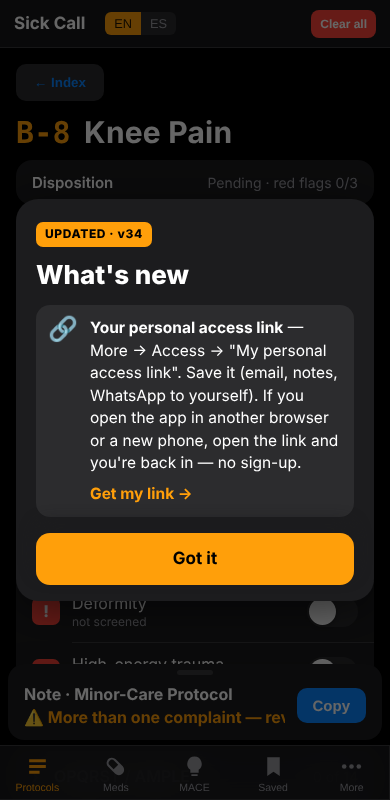
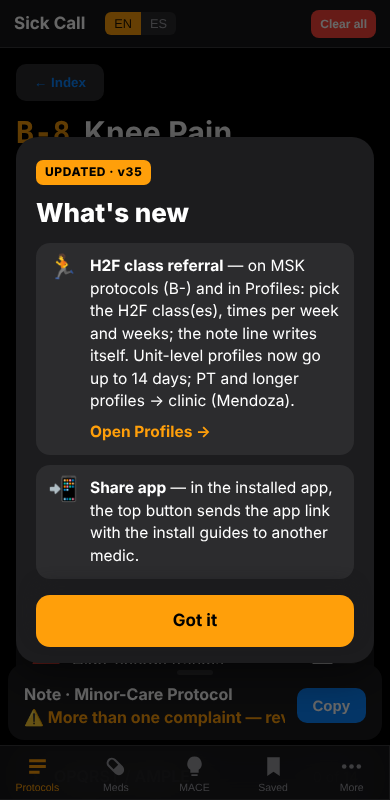
H2F class referral, unit-level profile rules (≤14 days), Share app button (v35)
Referido a clases de H2F, reglas de profile a nivel unidad (≤14 días), botón Compartir app (v35)

Claude-Session: https://claude.ai/code/session_015dVcNB5Wifchtix1QkjYVg

Changed region(s): [[0.0308, 0.1562, 0.9846, 0.8438], [0.9231, 0.25, 0.9538, 0.2812], [0.0308, 0.25, 0.0615, 0.2812]]

diff --git a/app.js b/app.js
@@ -1463,9 +1463,9 @@ function renderQ(){
 }
 /* ---- Profile builder ---- */
 const PB_TYPES=['RTD (full duty)','RTD w/ light duty','Quarters'];
-const PB_DUR=['24h','48h','72h','1 week','until re-evaluated'];
+const PB_DUR=['24h','48h','72h','7 days','14 days'];
 const PB_RESTR=['no PT','no ruck','no running','no jumping','no lifting >20 lbs','no prolonged standing >30 min','no overhead activity','no push-ups/sit-ups','no field duty','low-impact PT only','avoid strenuous activity','avoid heat/friction exposure','no driving/operating equipment (sedating med)'];
-const PB_FU=['Re-eval if not improved','Re-eval at sick call in 48–72h','Return sooner if symptoms worsen','Provider referral if no improvement'];
+const PB_FU=['Re-eval at the end of the profile','Re-eval at sick call in 48–72h','Return sooner if symptoms worsen','Not improved at re-eval → clinic (Mendoza) / provider','Needs PT or a longer/permanent profile → clinic (Mendoza) provider'];
 const PB_PRESETS=[
  {n:'Acute MSK 48h',t:1,d:1,r:[1,2,3,4],f:[0]},
  {n:'MSK + H2F',t:1,d:1,r:[1,2,3,4],f:[0],h:true},
@@ -1477,14 +1477,14 @@ const PB_PRESETS=[
 let pb={t:null,d:null,r:new Set(),f:new Set(),h:false,c:''};
 function pbText(){
   if(pb.t===null)return '';
-  const dur=pb.d===null?'':(pb.d===4?' until re-evaluated':' x'+PB_DUR[pb.d]);
+  const dur=pb.d===null?'':' x'+PB_DUR[pb.d];
   const rs=[...pb.r].sort((a,b)=>a-b).map(i=>PB_RESTR[i]); if(pb.c.trim())rs.push(pb.c.trim());
   const out=[];
   if(pb.t===0){out.push('RTD — cleared for full duty.'); if(rs.length)out.push('Advise: '+rs.join(', ')+'.');}
   else if(pb.t===1){out.push('RTD w/ restrictions'+dur+' (per CoC guidance)'+(rs.length?': '+rs.join(', '):'')+'.');}
   else{out.push('Recommend quarters'+dur+' for rest/recovery (pending CoC/provider approval).'+(rs.length?' On return: '+rs.join(', ')+'.':''));}
   [...pb.f].sort((a,b)=>a-b).forEach(i=>out.push(PB_FU[i]+'.'));
-  if(pb.h)out.push('Recommend referral to H2F for running/gait instruction, strengthening of weak muscle groups, and injury-prevention classes.');
+  if(pb.h)out.push(h2fText()||'Recommend referral to H2F for running/gait instruction, strengthening of weak muscle groups, and injury-prevention classes.');
   return out.join(' ');
 }
 function pbSet(k,v){pb[k]=pb[k]===v?null:v;renderMain();}
@@ -1504,7 +1504,9 @@ function renderProfiles(){
   const sedating=TPLS.some(t=>[...state[t.id].plan].some(p=>/Benadryl|Actifed/.test(p)));
   const chip=(on,fn,label)=>`<span class="chip ${on?'on':''}" onclick="${fn}">${label}</span>`;
   let h=`<h2 class="tpl">🪖 Profiles — builder</h2><p class="tpl-sub">Build the recommendation: type, duration, restrictions and follow-up. The text generates itself — copy it or send it to the note's Disposition. Always as a recommendation, not a medical order.</p><div class="ref">`;
+  h+='<div class="note-hint" style="margin-bottom:10px">🪖 '+L('<b>Unit level:</b> temporary profiles up to <b>14 days</b>, H2F referral and basic treatment. Re-evaluate at the end of the profile; not improved → clinic (Mendoza). PT referrals and longer or permanent profiles are done by the provider at the clinic.','<b>A nivel unidad:</b> profiles temporales de hasta <b>14 días</b>, referido a H2F y tratamiento básico. Re-evaluar al terminar el profile; si no mejora → clínica (Mendoza). Los referidos a PT y los profiles largos o permanentes los hace el proveedor en la clínica.')+'</div>';
   h+=pfbCard();
+  h+=h2fCard();
   if(anyPos)h+=`<div class="rfbanner">🚩 There is a POSITIVE red flag in a section — do NOT recommend RTD / light duty / quarters. Escalate to provider/ER per protocol.</div>`;
   h+=`<div class="field"><div class="lab"><span class="tag">⚡</span><span class="name">Shortcuts</span><span class="ask">load a combination and adjust it</span></div><div class="chips">`;
   PB_PRESETS.forEach((q,i)=>h+=chip(false,`pbPreset(${i})`,q.n));
@@ -1957,7 +1959,7 @@ function adTagLines(p){
   return out;
 }
 function noteEntries(){const ex=new Set(ad.excl||[]);const e=ad.log.filter(x=>!ex.has('ad:'+x.id));
-  if(ad.pid&&!ex.has('ad:'+ad.pid)){const p=getP(ad.pid),R=adEval(p);if(R.final||Object.keys(ad.dpDone).length||Object.keys(ad.rf).length||(ad.pfb&&ad.pid==='J-3'))e.push(adEntry(p,R));}return e;}
+  if(ad.pid&&!ex.has('ad:'+ad.pid)){const p=getP(ad.pid),R=adEval(p);if(R.final||Object.keys(ad.dpDone).length||Object.keys(ad.rf).length||(ad.pfb&&ad.pid==='J-3')||(typeof h2f!=='undefined'&&h2f.cls.size&&/^B-/.test(ad.pid)))e.push(adEntry(p,R));}return e;}
 function noteActive(){const ex=new Set(ad.excl||[]);return TPLS.filter(t=>tplHasContent(t,state[t.id])&&!ex.has('tpl:'+t.id));}
 function noteTog(k){const a=ad.excl||(ad.excl=[]);const i=a.indexOf(k);const off=i<0;off?a.push(k):a.splice(i,1);
   if(k.startsWith('ad:')){try{const id=k.slice(3),tid=protoTpl(id).tid,tk='tpl:'+tid;
@@ -2471,7 +2473,26 @@ function adDecisionHtml(p,R){
   h+='<div class="algo-actions"><button onclick="adCommit()">✓ Done — add to note, next complaint</button><button class="ghost" onclick="gOpenNote()">View note</button><button class="ghost" onclick="adBack()">Cancel</button></div>';
   return h;
 }
-function adResultCard(p,R){return adResultCard0(p,R)+(p.id==='J-3'?pfbCard():'')+'<div class="medic-only">⚕ '+L('Medic use only — suggestion for the medic and provider, not a self-diagnosis.','Solo para uso del médico — sugerencia para el médico y el proveedor, no es un autodiagnóstico.')+'</div>';}
+function adResultCard(p,R){return adResultCard0(p,R)+(p.id==='J-3'?pfbCard():'')+(/^B-/.test(p.id)?h2fCard():'')+'<div class="medic-only">⚕ '+L('Medic use only — suggestion for the medic and provider, not a self-diagnosis.','Solo para uso del médico — sugerencia para el médico y el proveedor, no es un autodiagnóstico.')+'</div>';}
+/* H2F class referral (data/h2f.js) — on ADTMC B- (MSK) protocols and in Profiles. / Referido a H2F */
+const h2f={cls:new Set(),f:2,w:4};
+function h2fTog(k){h2f.cls.has(k)?h2f.cls.delete(k):h2f.cls.add(k);renderMain();renderNote();}
+function h2fSet(k,v){h2f[k]=v;renderMain();renderNote();}
+function h2fMedic(){try{return (acRole&&acRole.reg&&acRole.reg.name)||settings.medicName||'';}catch(e){return settings.medicName||'';}}
+function h2fText(){if(typeof H2F_CLASSES==='undefined'||!h2f.cls.size)return '';
+  const c=H2F_CLASSES.filter(x=>h2f.cls.has(x[0])).map(x=>x[1]+' ('+x[2]+')').join('; ');
+  const m=h2fMedic();
+  return 'Referred to H2F ('+H2F_LOC+'): '+c+' — '+h2f.f+'x/week x'+h2f.w+' weeks. H2F class slip given; Soldier brings slip to the COF / schedules via Visibook QR.'+(m?' Referring source: '+m+(/\.$/.test(m)?'':'.'):'');}
+function h2fCard(){if(typeof H2F_CLASSES==='undefined')return '';
+  const sug=ad.pid?H2F_CLASSES.filter(x=>x[3].includes(ad.pid)).map(x=>x[0]):[];
+  let h='<div class="field h2f"><div class="lab"><span class="tag">🏃</span><span class="name">'+L('H2F class referral','Referido a clases de H2F')+'</span><span class="ask">'+L('unit level — instead of PT','a nivel unidad — en vez de PT')+'</span></div>';
+  h+='<div class="chips">'+H2F_CLASSES.map(x=>'<span class="chip '+(h2f.cls.has(x[0])?'on':'')+'" onclick="h2fTog(\''+x[0]+'\')">'+(sug.includes(x[0])?'★ ':'')+x[1]+' <small style="opacity:.7">'+x[2]+'</small></span>').join('')+'</div>';
+  h+='<div class="subrow" style="margin-top:8px"><div class="half"><div class="mini">'+L('Times per week','Veces por semana')+'</div><div class="chips">'+[1,2,3].map(n=>'<span class="chip '+(h2f.f===n?'on':'')+'" onclick="h2fSet(\'f\','+n+')">'+n+'x</span>').join('')+'</div></div><div class="half"><div class="mini">'+L('Weeks','Semanas')+'</div><div class="chips">'+[2,4,6,8].map(n=>'<span class="chip '+(h2f.w===n?'on':'')+'" onclick="h2fSet(\'w\','+n+')">'+n+'</span>').join('')+'</div></div></div>';
+  h+='<div class="mini" style="margin-top:8px">'+L('Referring source (rank / name)','Quien refiere (rango / nombre)')+'</div><input type="text" value="'+q$(h2fMedic())+'" placeholder="SPC LAST, First" oninput="settings.medicName=this.value;saveSettings();renderNote()">';
+  const t=h2fText();
+  if(t)h+='<div class="sugbox" style="margin-top:10px"><div class="sughead">📄 '+L('For the note','Para la nota')+'</div><div id="h2fOut" style="font-family:var(--mono);font-size:.9em;line-height:1.55">'+q$(t)+'</div><div class="algo-actions"><button onclick="copyTxt(document.getElementById(\'h2fOut\').textContent,this)">'+L('Copy','Copiar')+'</button></div></div><div class="note-hint" style="margin-top:8px">'+L('Fill the paper H2F slip: circle the class(es), frequency and your rank/name. Soldier takes it to ','Llena el slip de H2F en papel: circula la(s) clase(s), la frecuencia y tu rango/nombre. El soldado lo lleva al ')+H2F_LOC+'. '+L('Needs real PT → clinic (Mendoza) provider.','Si necesita PT de verdad → proveedor en la clínica (Mendoza).')+'</div>';
+  else h+='<div class="dim" style="font-size:.88em;margin-top:6px">'+(sug.length?L('★ = suggested for this complaint. ','★ = sugerida para esta queja. '):'')+L('Pick class(es) to build the referral.','Escoge clase(s) para armar el referido.')+'</div>';
+  return h+'</div>';}
 /* Shaving profile (PFB) builder — used on ADTMC J-3 and in Profiles. / Perfil de afeitar (PFB) */
 function pfbSet(k){ad.pfb=ad.pfb===k?'':k;renderMain();renderNote();}
 function pfbCard(){
@@ -2573,6 +2594,7 @@ function adNoteParts(){
     (e.plan||[]).forEach(x=>out.plan.push(x));
   });
   if(ad.pfb&&typeof PFB!=='undefined'&&entries.some(e=>e.id==='J-3'))out.plan.push(pfbNote(ad.pfb));
+  if(typeof h2fText==='function'){const ht=h2fText();if(ht&&entries.length)out.plan.push(ht);}
   const hi=adHighest();
   const D={PN:'Sent to clinic — needs a provider now.',AEM:settings.aemOn?'Referred to AEM'+(aemWho()?' ('+aemWho()+')':'')+' — evaluation today.':'Sent to clinic — no AEM available; supervising provider evaluation today.',MCP:'Minor care here.',SP:'Specialty referral requested.',APPT:'Appointment/referral requested at clinic.'};
   if(hi&&hi!=='MCP')out.dispo=D[hi]||LV[hi].s;
@@ -2758,7 +2780,7 @@ async function tryUnlock(){
 }
 function lockNow(){if(settings.pin){document.getElementById('lock').style.display='flex';}}
 function showLockIfNeeded(){if(settings.pin)document.getElementById('lock').style.display='flex';}
-const APP_VER='v34';
+const APP_VER='v35';
 function updateApp(b){
   if(b){b.disabled=true;b.textContent=L('Updating…','Actualizando…');}
   const go=()=>{location.href=location.pathname+'?u='+Date.now();};
@@ -3104,10 +3126,22 @@ let instEvt=null;
 function isStandalone(){return (window.matchMedia&&matchMedia('(display-mode: standalone)').matches)||navigator.standalone===true;}
 function isIOS(){return /iphone|ipad|ipod/i.test(navigator.userAgent)||(navigator.platform==='MacIntel'&&navigator.maxTouchPoints>1);}
 function canInstall(){return !isStandalone()&&(instEvt||isIOS()||/android/i.test(navigator.userAgent));}
-function instUpd(){const b=document.getElementById('instBtn');if(b){b.style.display=canInstall()?'':'none';b.textContent='📲 '+L('Install','Instalar');}}
+function instUpd(){const b=document.getElementById('instBtn');if(!b)return;if(isStandalone()){b.style.display='';b.textContent='📲 '+L('Share app','Compartir app');b.title=L('Send the app to another medic','Manda la app a otro médico');return;}b.style.display=canInstall()?'':'none';b.textContent='📲 '+L('Install','Instalar');}
 window.addEventListener('beforeinstallprompt',e=>{e.preventDefault();instEvt=e;instUpd();});
 window.addEventListener('appinstalled',()=>{instEvt=null;instUpd();try{iqToast(L('Installed ✓ — open it from your home screen','Instalada ✓ — ábrela desde tu pantalla de inicio'));}catch(e){}});
+/* Installed app: the same button shares the app link + the install guides (images). / App instalada: el botón comparte el link + las guías. */
+async function shareApp(){
+  const url=(typeof iqBase==='function'?iqBase():location.href.split('#')[0].replace(/index\.html.*$/,''));
+  const txt=L('🩺 Sick Call — ADTMC sick call tool for medics.\nOpen the link and add it to your Home Screen (iPhone: Safari → Share ⬆ → Add to Home Screen · Android: Chrome → 📲 Install). Guides attached.\nMedic access: use your unit QR inside the app.',
+   '🩺 Sick Call — herramienta de sick call ADTMC para médicos.\nAbre el link y agrégala a tu pantalla de inicio (iPhone: Safari → Compartir ⬆ → Agregar a pantalla de inicio · Android: Chrome → 📲 Instalar). Van las guías.\nAcceso de médico: usa el QR de tu unidad dentro de la app.');
+  try{const files=[];for(const f of ['Install_iPhone_Safari.jpg','Install_Android_Chrome.jpg']){const r=await fetch('docs/install/'+f);if(r.ok)files.push(new File([await r.blob()],f,{type:'image/jpeg'}));}
+    if(files.length&&navigator.canShare&&navigator.canShare({files})){await navigator.share({files,text:txt+'\n'+url,title:'Sick Call'});return;}
+    if(navigator.share){await navigator.share({title:'Sick Call',text:txt,url});return;}
+  }catch(e){if(e&&e.name==='AbortError')return;}
+  try{await navigator.clipboard.writeText(txt+'\n'+url);iqToast(L('Link and instructions copied','Link e instrucciones copiados'));}catch(e){prompt('Copy',url);}
+}
 async function installApp(){
+  if(isStandalone()){shareApp();return;}
   if(instEvt){instEvt.prompt();try{await instEvt.userChoice;}catch(e){}instEvt=null;instUpd();return;}
   const ios=isIOS();let o=document.getElementById('instOv');if(o)o.remove();o=document.createElement('div');o.id='instOv';
   const steps=ios?[

diff --git a/data/whatsnew.js b/data/whatsnew.js
@@ -3,6 +3,9 @@
    Add a new entry at the TOP for every feature release (same value as APP_VER). Keep it short: 1–3 items.
    go: optional button target — a tab/view name ('admeds', 'perfiles', 'more') or 'proto:J-3'. */
 const WHATSNEW=[
+ {v:'v35',items:[
+   {i:'🏃',en:'<b>H2F class referral</b> — on MSK protocols (B-) and in Profiles: pick the H2F class(es), times per week and weeks; the note line writes itself. Unit-level profiles now go up to 14 days; PT and longer profiles → clinic (Mendoza).',es:'<b>Referido a clases de H2F</b> — en los protocolos MSK (B-) y en Perfiles: escoge la(s) clase(s) de H2F, veces por semana y semanas; la línea de la nota se escribe sola. Los profiles a nivel unidad ahora llegan hasta 14 días; PT y profiles largos → clínica (Mendoza).',go:'perfiles',btn:['Open Profiles','Abrir Perfiles']},
+   {i:'📲',en:'<b>Share app</b> — in the installed app, the top button sends the app link with the install guides to another medic.',es:'<b>Compartir app</b> — en la app instalada, el botón de arriba manda el link de la app con las guías de instalación a otro médico.'}]},
  {v:'v34',items:[
    {i:'🔗',en:'<b>Your personal access link</b> — More → Access → "My personal access link". Save it (email, notes, WhatsApp to yourself). If you open the app in another browser or a new phone, open the link and you\'re back in — no sign-up.',es:'<b>Tu link personal de acceso</b> — Más → Acceso → "Mi link personal de acceso". Guárdalo (correo, notas o WhatsApp a ti mismo). Si abres la app en otro navegador o teléfono, abre el link y vuelves a entrar — sin registrarte.',go:'access',btn:['Get my link','Sacar mi link']}]},
  {v:'v29',items:[

diff --git a/sw.js b/sw.js
@@ -1,5 +1,5 @@
-const C='sickcall-v34';
-const FILES=['./','index.html','style.css','app.js','data/protocols.js','data/meds.js','data/plans.js','data/notetags.js','data/howto.js','data/es.js','manifest.json','vendor/pdf-lib.min.js','forms/DD689.pdf','data/intake.js','intake.html','poster.html','vendor/qrcode.min.js','vendor/jsQR.min.js','access.js','data/access.js','data/medinfo.js','data/pfb.js','data/whatsnew.js','icons/icon-192.png','icons/icon-512.png','icons/apple-touch-icon.png'];
+const C='sickcall-v35';
+const FILES=['./','index.html','style.css','app.js','data/protocols.js','data/meds.js','data/plans.js','data/notetags.js','data/howto.js','data/es.js','manifest.json','vendor/pdf-lib.min.js','forms/DD689.pdf','data/intake.js','intake.html','poster.html','vendor/qrcode.min.js','vendor/jsQR.min.js','access.js','data/access.js','data/medinfo.js','data/pfb.js','data/h2f.js','data/whatsnew.js','icons/icon-192.png','icons/icon-512.png','icons/apple-touch-icon.png'];
 self.addEventListener('install',e=>{e.waitUntil(caches.open(C).then(c=>c.addAll(FILES.map(f=>new Request(f,{cache:'reload'})))).then(()=>self.skipWaiting()));});
 self.addEventListener('activate',e=>{e.waitUntil(caches.keys().then(k=>Promise.all(k.filter(x=>x!==C).map(x=>caches.delete(x)))).then(()=>self.clients.claim()));});
 // Network-first: always the newest files when online; cached copy when offline.

diff --git a/data/h2f.js b/data/h2f.js
@@ -1,0 +1,14 @@
+/* H2F (Holistic Health and Fitness) class referral — 2/1 AD H2F Class Appointment Slip.
+   Unit-level option instead of a PT referral; PT itself is ordered by the provider at the clinic.
+   Referido a clases de H2F — opción a nivel unidad en vez de PT; PT lo ordena el proveedor en la clínica. */
+const H2F_LOC='H2F COF, 20565 Old Ironsides Drive';
+const H2F_CLASSES=[
+ ['knee','Runners Knee Class','Mon/Wed 0900',['B-8']],
+ ['khip','Knee and Hip Stability Class','Wed/Fri 1000',['B-8','B-7']],
+ ['shld','Shoulder Class','Tues/Thurs 0900',['B-3']],
+ ['run','Run Prep Clinic (6 PAX max)','Tues 1300',['B-8','B-9','B-10','B-11']],
+ ['back','Low Back Class','Mon/Wed 1000',['B-1']],
+ ['foot','Foot Stability Class','Tues/Thurs 1000',['B-9','B-10']],
+ ['mob','Mobility Class','Tues/Thurs 0900',['B-1','B-2','B-7','B-11']],
+ ['abc','Army Body Composition Class','Wed 0930',[]]
+];

diff --git a/style.css b/style.css
@@ -793,3 +793,6 @@ body.guest #aside,body.guest #mobileNoteBtn,body.guest #tabbar button[data-v="ad
 /* Personal access link (v34) / Link personal */
 #mgOv .pass-box{background:var(--panel);border-radius:16px;padding:14px 16px;margin:14px 0 4px}
 #mgOv .pass-box b{font-size:18px}#mgOv .pass-box p{font-size:14.5px;color:var(--dim);margin:6px 0 4px;line-height:1.45}
+/* H2F referral (v35) */
+.h2f .chips .chip{display:inline-flex;flex-direction:column;align-items:flex-start;text-align:left;border-radius:14px;padding:8px 14px;line-height:1.25}
+.h2f .chips .chip small{font-size:.78em;margin-top:2px}

diff --git a/index.html b/index.html
@@ -71,6 +71,7 @@
 <script src="data/access.js"></script>
 <script src="data/medinfo.js"></script>
 <script src="data/pfb.js"></script>
+<script src="data/h2f.js"></script>
 <script src="data/whatsnew.js"></script>
 <script src="vendor/qrcode.min.js"></script>
 <script src="app.js"></script>

diff --git a/CHANGELOG.md b/CHANGELOG.md
@@ -4,6 +4,10 @@ Bilingual summary of everything added or fixed, newest first. PR numbers refer t
 Resumen bilingüe de todo lo agregado o corregido, lo más nuevo primero. Los números de PR son de este repositorio.
 
 ## Unreleased / Próximo
+- **H2F class referral + unit-level profile rules:** H2F builder (2/1 AD H2F Class Appointment Slip classes and times, times/week, weeks, referring source) on ADTMC B- protocols and in Profiles; suggested classes marked ★; the note gets the referral line. Profile builder durations now 24h–14 days (unit level); follow-up options: re-eval at end of profile, not improved → clinic (Mendoza), PT or longer/permanent profile → clinic provider.
+  **Referido a H2F + reglas de profile a nivel unidad:** generador de H2F (clases y horarios del slip de 2/1 AD, veces/semana, semanas, quién refiere) en los protocolos ADTMC B- y en Perfiles; clases sugeridas con ★; la nota recibe la línea del referido. Duraciones del generador de profile ahora de 24 h a 14 días (nivel unidad); seguimiento: re-evaluar al terminar el profile, si no mejora → clínica (Mendoza), PT o profile largo/permanente → proveedor de la clínica.
+- **Share app button:** in the installed app the top button becomes "📲 Share app" and sends the link plus the iPhone/Android install guides (images).
+  **Botón Compartir app:** en la app instalada el botón de arriba se vuelve "📲 Compartir app" y manda el link con las guías de instalación de iPhone/Android (imágenes).
 - **Personal access link:** approved medics get a personal link (More → Access → "My personal access link"; also shown right after unit QR sign-up). Opening it in any browser or phone restores access with no sign-up — fixes the iPhone Safari vs Home Screen split and phone changes. Each link has an ID (sent with new sign-ups to Tally) that can be revoked in `revoked.json`. Nobody loses current access.
   **Link personal de acceso:** los médicos aprobados tienen un link personal (Más → Acceso → "Mi link personal de acceso"; también sale al terminar el registro con QR de unidad). Al abrirlo en cualquier navegador o teléfono se recupera el acceso sin registrarse — resuelve lo de Safari vs pantalla de inicio en iPhone y cambios de teléfono. Cada link tiene un ID (llega a Tally con los registros nuevos) que se puede revocar en `revoked.json`. Nadie pierde su acceso actual.
 - **iPhone Safari hint:** on the access screen in Safari (iPhone/iPad), a note says that if the app is already on the Home Screen, open it from there — access is saved in that app, not in Safari.
